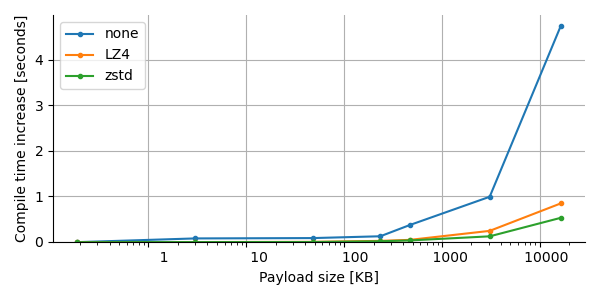
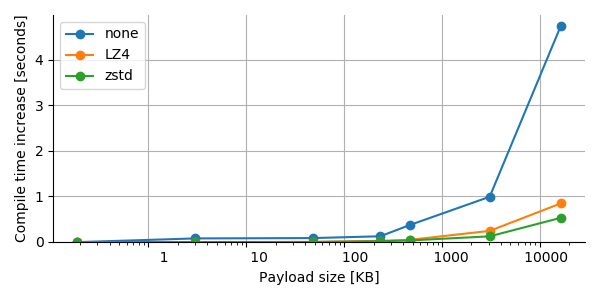
documentation

diff --git a/compile_metrics/compile_metrics_plot.py b/compile_metrics/compile_metrics_plot.py
@@ -26,25 +26,29 @@ fig = plt.figure(figsize=(6, 3))
 ax = fig.add_subplot(111)
 
 baseline_target_size_kb = np.loadtxt("generated_data/compile_sizes_zero.txt", dtype=int, delimiter=',', usecols=[1], unpack=False).item() / 1024
+print("baseline_target_size_kb", baseline_target_size_kb)
 
 target_sizes_kb = {}
 for compression in ["none", "LZ4", "zstd"]:
     loaded = np.loadtxt("generated_data/compile_sizes_{}.txt".format(compression), dtype=int, delimiter=',', usecols=[1], unpack=False)
     size_kb = loaded[sort_indices] / 1024
-    ax.plot(source_sizes_kb, size_kb - baseline_target_size_kb, ".-", label=compression)
+    target_sizes_kb[compression] = size_kb
+
+for compression, target_size_kb in target_sizes_kb.items():
+    expected_size = baseline_target_size_kb + source_sizes_kb
+    ax.plot(source_sizes_kb, 100.0 * target_size_kb / expected_size, "o-", label=compression)
 
 ax.set_xscale('log')
-ax.set_yscale('log')
 ax.xaxis.set_major_formatter(ticker.StrMethodFormatter("{x:8.0f}"))
-ax.yaxis.set_major_formatter(ticker.StrMethodFormatter("{x:8.0f}"))
+ax.set_ylim(0, 105)
 ax.set_xlabel("Payload size [KB]")
-ax.set_ylabel("Binary size increase [KB]")
+ax.set_ylabel("Binary size/expected size [%]")
 ax.spines["top"].set_visible(False)
 ax.spines["right"].set_visible(False)
 ax.grid()
 ax.legend()
 fig.tight_layout()
-fig.savefig("../readme/binary_size_overhead.png")
+fig.savefig("../readme/binary_size.png")
 
 
 
@@ -57,7 +61,7 @@ for compression in ["none", "LZ4", "zstd"]:
     times = []
     for source_size in source_sizes:
         times.append(np.mean(get_times_from_txt("generated_data/compile_times_{}_{}.txt".format(compression, source_size))))
-    ax.plot(source_sizes_kb, times - compile_time_baseline, ".-", label=compression)
+    ax.plot(source_sizes_kb, times - compile_time_baseline, "o-", label=compression)
 
 ax.set_xscale('log')
 ax.xaxis.set_major_formatter(ticker.StrMethodFormatter("{x:8.0f}"))

diff --git a/binary_bakery_decoder.h b/binary_bakery_decoder.h
@@ -257,10 +257,16 @@ constexpr auto bb::get_pixel(
       return detail::get_nulled_object<user_type>();
    }
 
-   //const header head = bb::get_header(source);
-   if (is_image(source) == false)
+   const header head = bb::get_header(source);
+   if (head.type != 1)
    {
       detail::error("Payload is not an image", std::source_location::current());
+      return detail::get_nulled_object<user_type>();
+   }
+
+   if (head.compression != 0)
+   {
+      detail::error("Payload is compressed. This interface only works with uncompressed payloads", std::source_location::current());
       return detail::get_nulled_object<user_type>();
    }
 

diff --git a/readme.md b/readme.md
@@ -60,7 +60,7 @@ A typical payload header looks like this:
 ```c++
 namespace bb{
 
-constexpr uint64_t bb_bitmap_font_16_png[]{
+static constexpr uint64_t bb_bitmap_font_16_png[]{
    0x0020002003000201, 0x00000bf600000c00, 0x62a1b925fffffff0, 0x97ad5c9db662a1b9, 
    0xc262a3bb65a8bc5b, 0x5b9bb462a3bb6aad, 0x82973f7c944f8ca1, /* ... */
 };
@@ -68,9 +68,9 @@ constexpr uint64_t bb_bitmap_font_16_png[]{
 } // namespace bb
 ```
 #### Header
-Encoded in that array is a header with meta information and the file contents itself. You can access the header with `get_header(identifier)`. Here, `identifier` means you can either enter the original filename `get_header("bitmap_font_16.png")` or the array itself `get_header(bb_bitmap_font_16_png)`. Almost all functions can be used that way. See [binary_bakery_decoder.h](binary_bakery_decoder.h#L19-L37) for the header members.
+You can get a `const uint64_t*` pointer to the payloads by filename with `bb::get(const char*)`. All other functions require that payload pointer.
 
-To access the original itself, there are three interfaces. Note that some of those are typed, so they already return the data in the original type. For generic binary data, that is `uint8_t` or whatever compatible byte-sized type you like (e.g. `std::byte`). Images are stored in a special way so their direct pixel information is available. For a n-component bitmap, your type should be `sizeof(T)==n`.
+Inside those `uint64` payload arrays is a header with meta information and the data itself. You can access the header with `constexpr get_header(const uint64_t*)`. See [binary_bakery_decoder.h#L16-L34](binary_bakery_decoder.h#L16-L34) for the header members.
 
 #### Decompression
 If your data was encoded with a compression algorithm, you need to provide a function in your code that does the decompression. All interface functions have such a function pointer parameter. For uncompressed streams, that parameter can be left out as it defaults to `nullptr`. That function should look like this:
@@ -86,31 +86,26 @@ auto compression_fun(
 For zstd for example, that would typically contain a call to `ZSTD_decompress(dst, dst_size, src, src_size);`. For Lz4, that might look like `LZ4_decompress_safe(src, dst, src_size, dst_size)`.
 
 #### Data interfaces
-|<pre>template&lt;typename user_type&gt;<br>auto bb::decode_to_vector(identifier, decomp_fun) -> std::vector&lt;T&gt;</pre>|
+|<pre>template&lt;typename user_type&gt;<br>auto bb::decode_to_vector(const uint64_t* payload, decomp_fun) -> std::vector&lt;user_type&gt;</pre>|
 |:---|
-| Returns a vector of your target type. If you want to use this interface, you need to `#define BAKERY_PROVIDE_VECTOR` before you include the decoder header. |
+| Returns a vector of your target type. If you want to use this interface, you need to `#define BAKERY_PROVIDE_VECTOR` before you include the decoder header (to prevent the `<vector>` include if you don't). Note that this function requires `user_type` to be default constructible. |
 
-|<pre>template&lt;typename user_type&gt;<br>auto bb::decode_into_pointer(identifier, user_type* dst, decomp_fun) -> void</pre>|
+|<pre>auto bb::decode_into_pointer(const uint64_t* payload, void* dst, decomp_fun) -> void</pre>|
 |:---|
-| Writes into a **preallocated** memory. You can always access the required decompressed size in bytes from `header::decompressed_size`. |
+| Writes into a **preallocated** memory. You can access the required decompressed size in bytes (at compile-time) from `header::decompressed_size`. |
+
+|<pre>template&lt;typename user_type&gt;<br>constexpr auto bb::get_pixel(const uint64_t* payload, const int index) -> user_type</pre>|
+|:---|
+| Special compile-time access interface that only works for **uncompressed images**. Can retrieve the pixel color data at compile-time. |
 
 
-This function is special and dangerous: It allows `constexpr` access to the data, which might be handy for very special purposes. As a result, this returns an array, which stores its data on the stack. Stack memory is a very limited resource (often just 1MB), which can *easily* be exhausted by calling this function on a non-tiny file. That also applies to a runtime-use and will result in a stack overflow. Use this only when you know what you're doing.
-
----
-
-
-If you want to avoid using the provided decoding header altogether, you can access the information yourself. The first 24 bytes contain the header which is defined at the top of the [`binary_bakery_decoder.h`](binary_bakery_decoder.h). Everything after that is the byte stream.
+#### Do your own thing
+If you want to avoid using the provided decoding header altogether, you can access the information yourself. The first 24 bytes contain the header which is defined at the top of the [`binary_bakery_decoder.h`](binary_bakery_decoder.h#L16-L34). Everything after that is the byte stream.
 
 ## Error handling
 If there's an error in a compile-time context, that always results in a compile error. Runtime behavior is configurable by providing a function that gets called in error cases. You might want to throw an exception, call `std::terminate()`, log some error and continue or whatever you desire.
 
-|   | Compiletime | Runtime |
-|---|---|---|
-| Default | Compile error | No error, return defaulted types |
-| User-defined error function | Compile error | Call user-defined function |
-
-To provide a custom error function, define `BB_ERROR_FUNCTION` and set set the function pointer to your function:
+To provide a custom error function, set set the function pointer to your function:
 
 ```c++
 auto my_error_function(
@@ -124,11 +119,16 @@ auto my_error_function(
    );
    std::terminate();
 }
-
 // ...
-
 bb::error_callback = my_error_function;
 ```
+
+ :warning: If no `bb::error_callback` is set, default behavior is ignoring errors and returning nulled values. That is almost certainly not what you want. Errors are things like calling image-only functions on non-image payloads and providing `nullptr` parameters. Behavior summary:
+
+|   | Compiletime | Runtime |
+|---|---|---|
+| Default | Compile error | No error, return defaulted types |
+| User-defined error function | Compile error | Call user-defined function |
 
 ## Costs and benefits
 There's two main concerns about embedding non-code data into your source code and resulting binary: Compile times and the size of the resulting binary. But there's also the potential of higher decode speed. What follows is an analysis of the pros and cons this method vs file loading in regard to various metrics. To get realistic results, a dataset of different images was created (in [sample_datasets/](sample_datasets)):
@@ -151,37 +151,35 @@ The dataset contains various game spritesheets like this:
 
 ### Binary size
 
-The decoder header has been written with few includes (`<bit>`, `<cstdint>`, `<error_location>`, `<string>`, `<type_traits>`). In most cases, they are already implicitly included and shouldn't have a meaningful impact on compile metrics on its own. I've measured a constant binary size penalty of 3KB in my test, independent of the size of the payload.
+The expected size of the resulting binary is the size without anything plus the byte-size of the payload. The following plot shows the resulting binary size relative to that expected size.
 
-In addition to the decoder code, it's to be expected that the binary size increases at least by the size of the data you add. Luckily compilers seem to do a good job at preventing additional overhead. On top of the decoder code cost, uncompressed encoding increases the binary size by the payload size.
+<p align="center"><img src="https://github.com/s9w/binary_bakery/raw/master/readme/binary_size.png"></p>
 
-Compression allows the payload size to decrease, lessening the impact on binary size and compile time:
+So the compiler doesn't add overhead beyond the payload size and a small constant size penalty of ~3KB from the decoding header. Compression allows the payload size to decrease, reducing the impact on binary size and compile time.
 
-<p align="center"><img src="https://github.com/s9w/binary_bakery/raw/master/readme/binary_size_overhead.png"></p>
-
-So with zstd compression, an image with an uncompressed size of 16MB only adds 1.78MB to the resulting binary.
+As an example datapoint, an image with an uncompressed size of 16MB only adds 1.78MB to the resulting binary with zstd compression.
 
 ### Compile times
 
 <p align="center"><img src="https://github.com/s9w/binary_bakery/raw/master/readme/compile_times.png"></p>
 
-The increase in compile times is linear with the size of the payload (note the log scale). Compression decreases the effective payload size. For the biggest 16 MB data sample, compile time increases by 5 seconds uncompressed and 1 second with zstd.
+The increase in compile times is linear with the size of the payload (note the log scale). Compression decreases the effective payload size. For the biggest 16 MB data sample, compile time increases by 5 seconds uncompressed and 0.5 seconds with zstd.
 
-The payload header should only be included in one translation unit (TU). With commonplace parallel compilation, the effective compile time increase should only be 1/n (n cores) of those numbers because the other n-1 threads can compile other TUs. So even ignoring compression, an effective payload size of 3MB only increases compile times by 0.1 seconds.
+The payload header should only be included in one translation unit (TU). With commonplace parallel compilation, the effective compile time increase should only be 1/n (n cores) of those numbers because the other n-1 threads can compile other TUs. So even ignoring compression, a payload size of 16MB only increases compile times by 0.06 seconds (assuming 8 threads and enough TUs to saturate them).
 
 ### Decode speed
 
-Of interest is also the loading speed compared to traditional loading from files. Here's the decoding time relative to the decoding speed from a file with [stb_image](https://github.com/nothings/stb):
+Of interest is also the loading speed compared to traditional loading from files. Here's the decoding time for png images relative to the decoding speed from a file with [stb_image](https://github.com/nothings/stb) (lower is faster):
 
 <p align="center"><img src="https://github.com/s9w/binary_bakery/raw/master/readme/decode_speed_analysis.png"></p>
 
-LZ4 performs identical to uncompressed data in decoding speed. It's a very fast compression that suffers in compression rate. zstd can often reduce the compile impact by half compared to LZ4.
+LZ4 performs identical to uncompressed data in decoding speed by being fast enough to not be the bottleneck. zstd is heaver bit also often reduced the compile impact by half compared to LZ4.
 
 Baking performs better than file loading for all sizes and compression types. In particular for small files, which should be the main target demographic for this tool.
 
 All these numbers were measured in release mode (`/O2`) with Visual Studio 16.11.3, a Ryzen 3800X and a Samsung 970 EVO SSD.
 
 ## Summary
-This is a niche tool. File systems are a good invention and the better choice in most cases.
+This is a niche tool. File systems and other means of packing data are a good inventions and the better choice in most cases.
 
-If this suits your needs however, the tradeoffs are manageable. If used correctly, compile times and binary sizes don't suffer much.
+If this suits your needs however, the tradeoffs are manageable.
